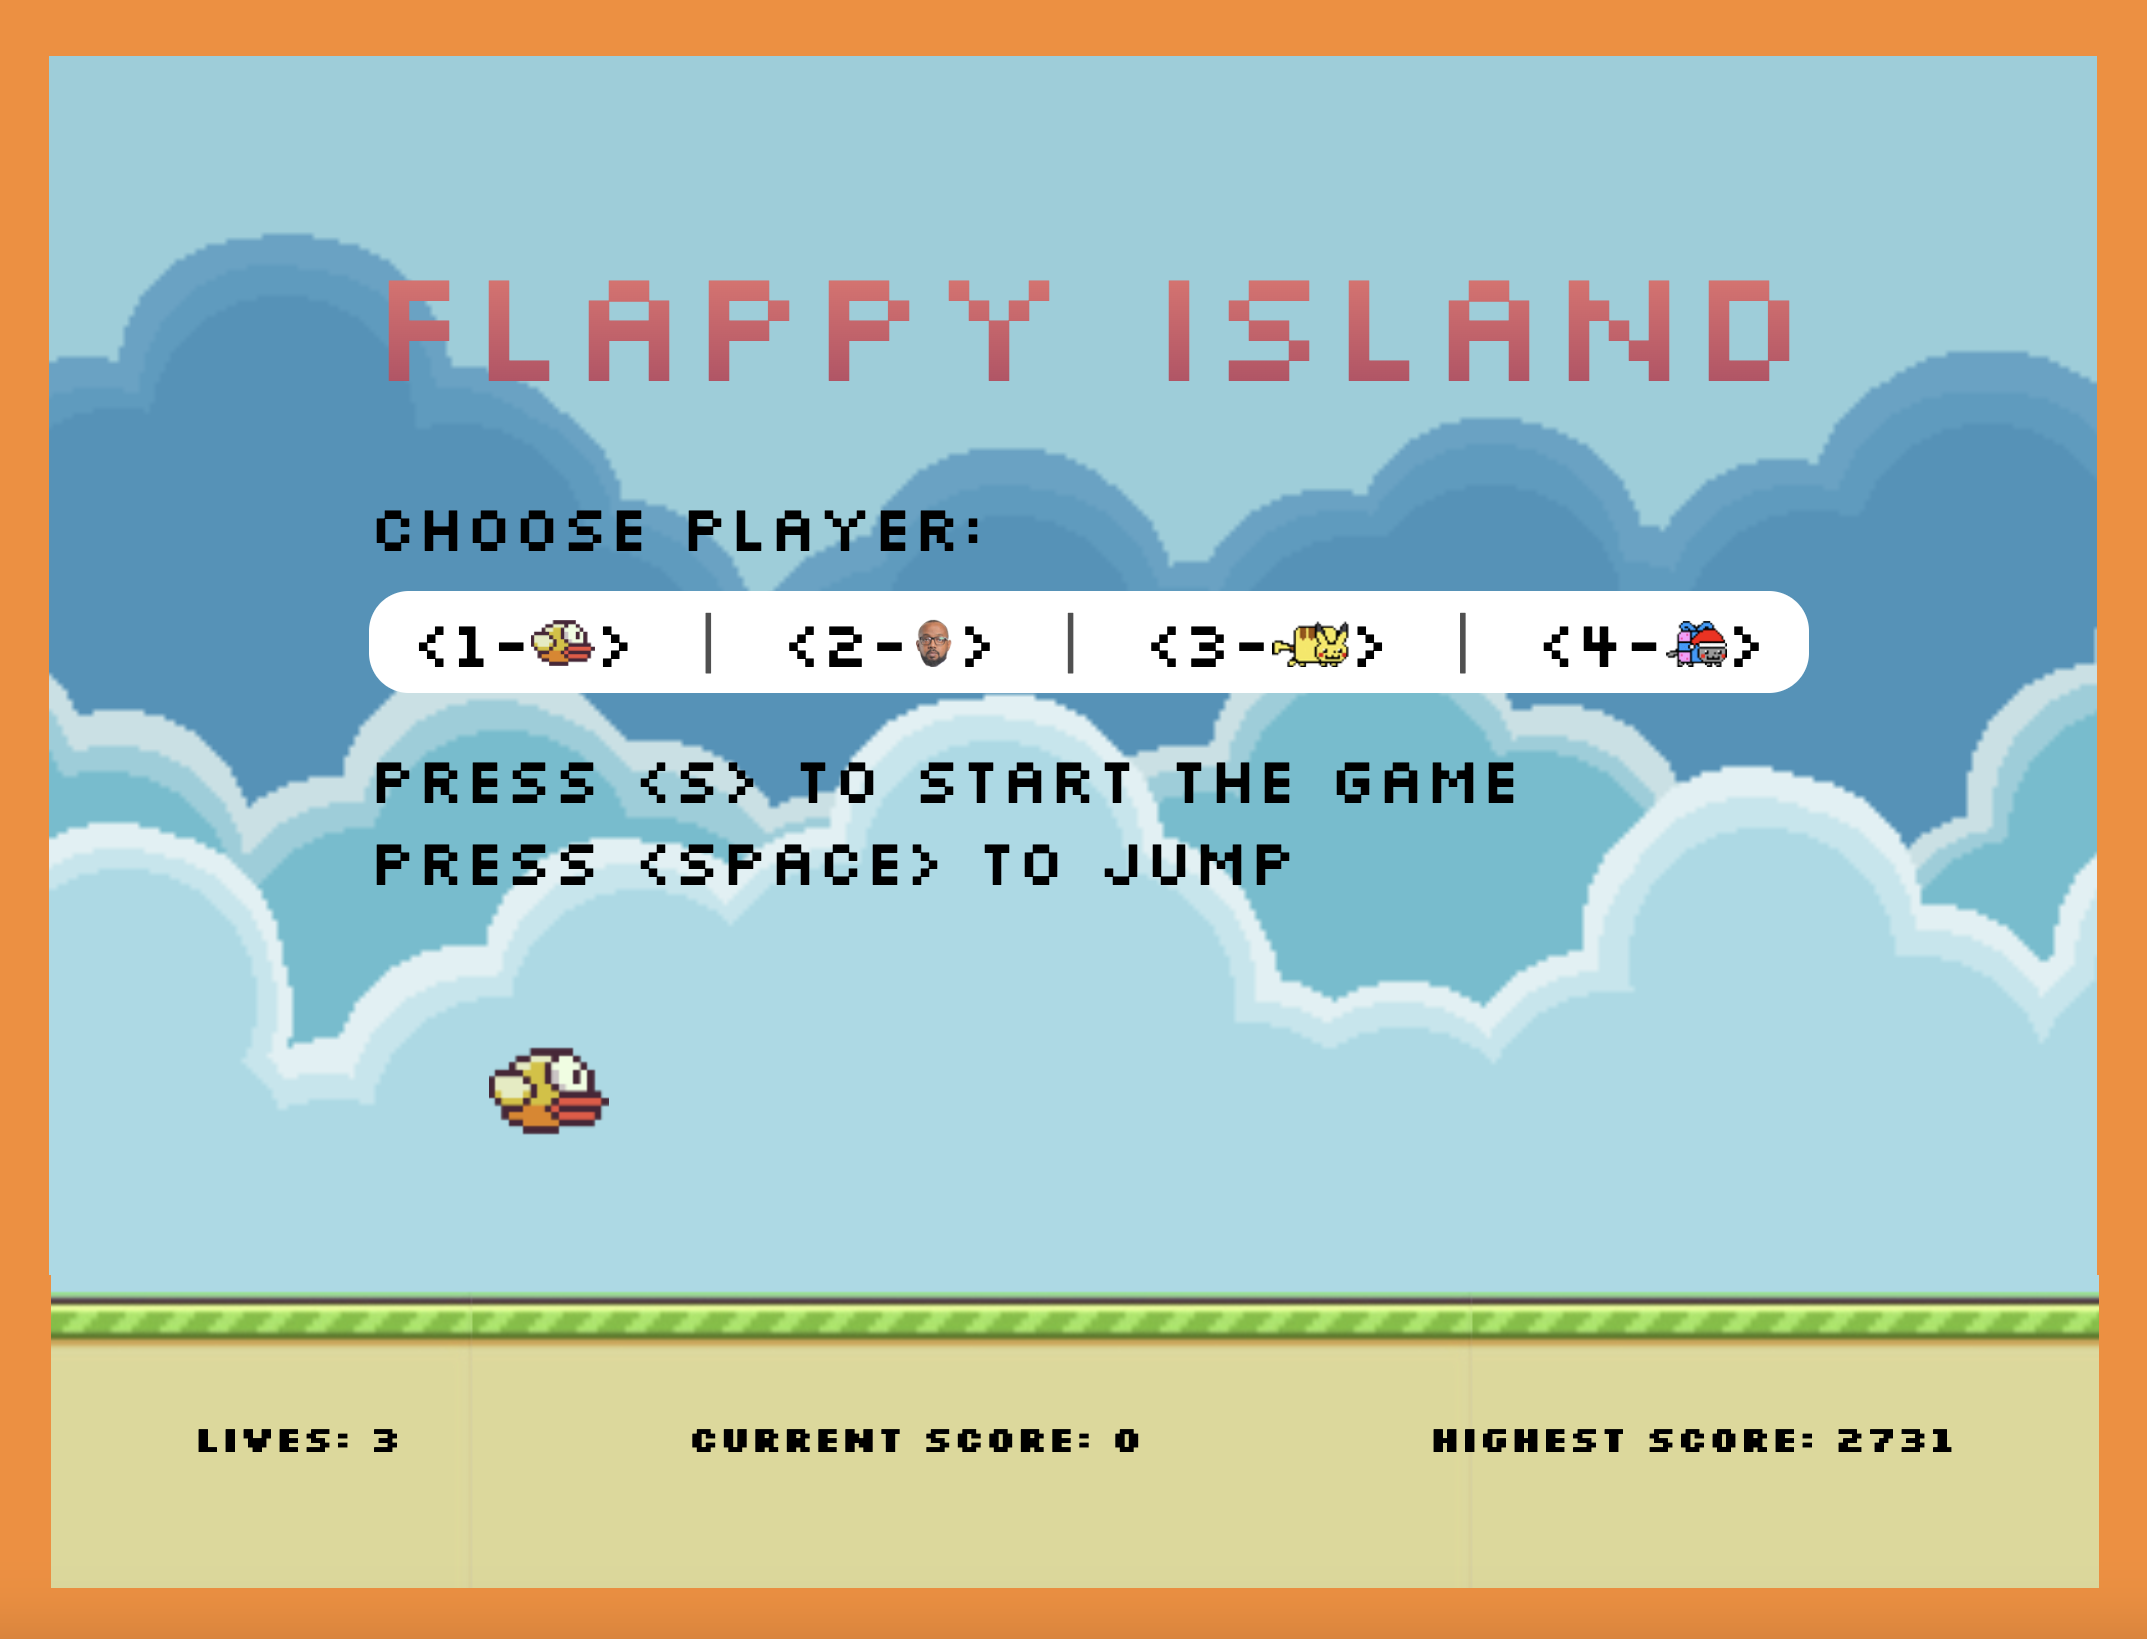
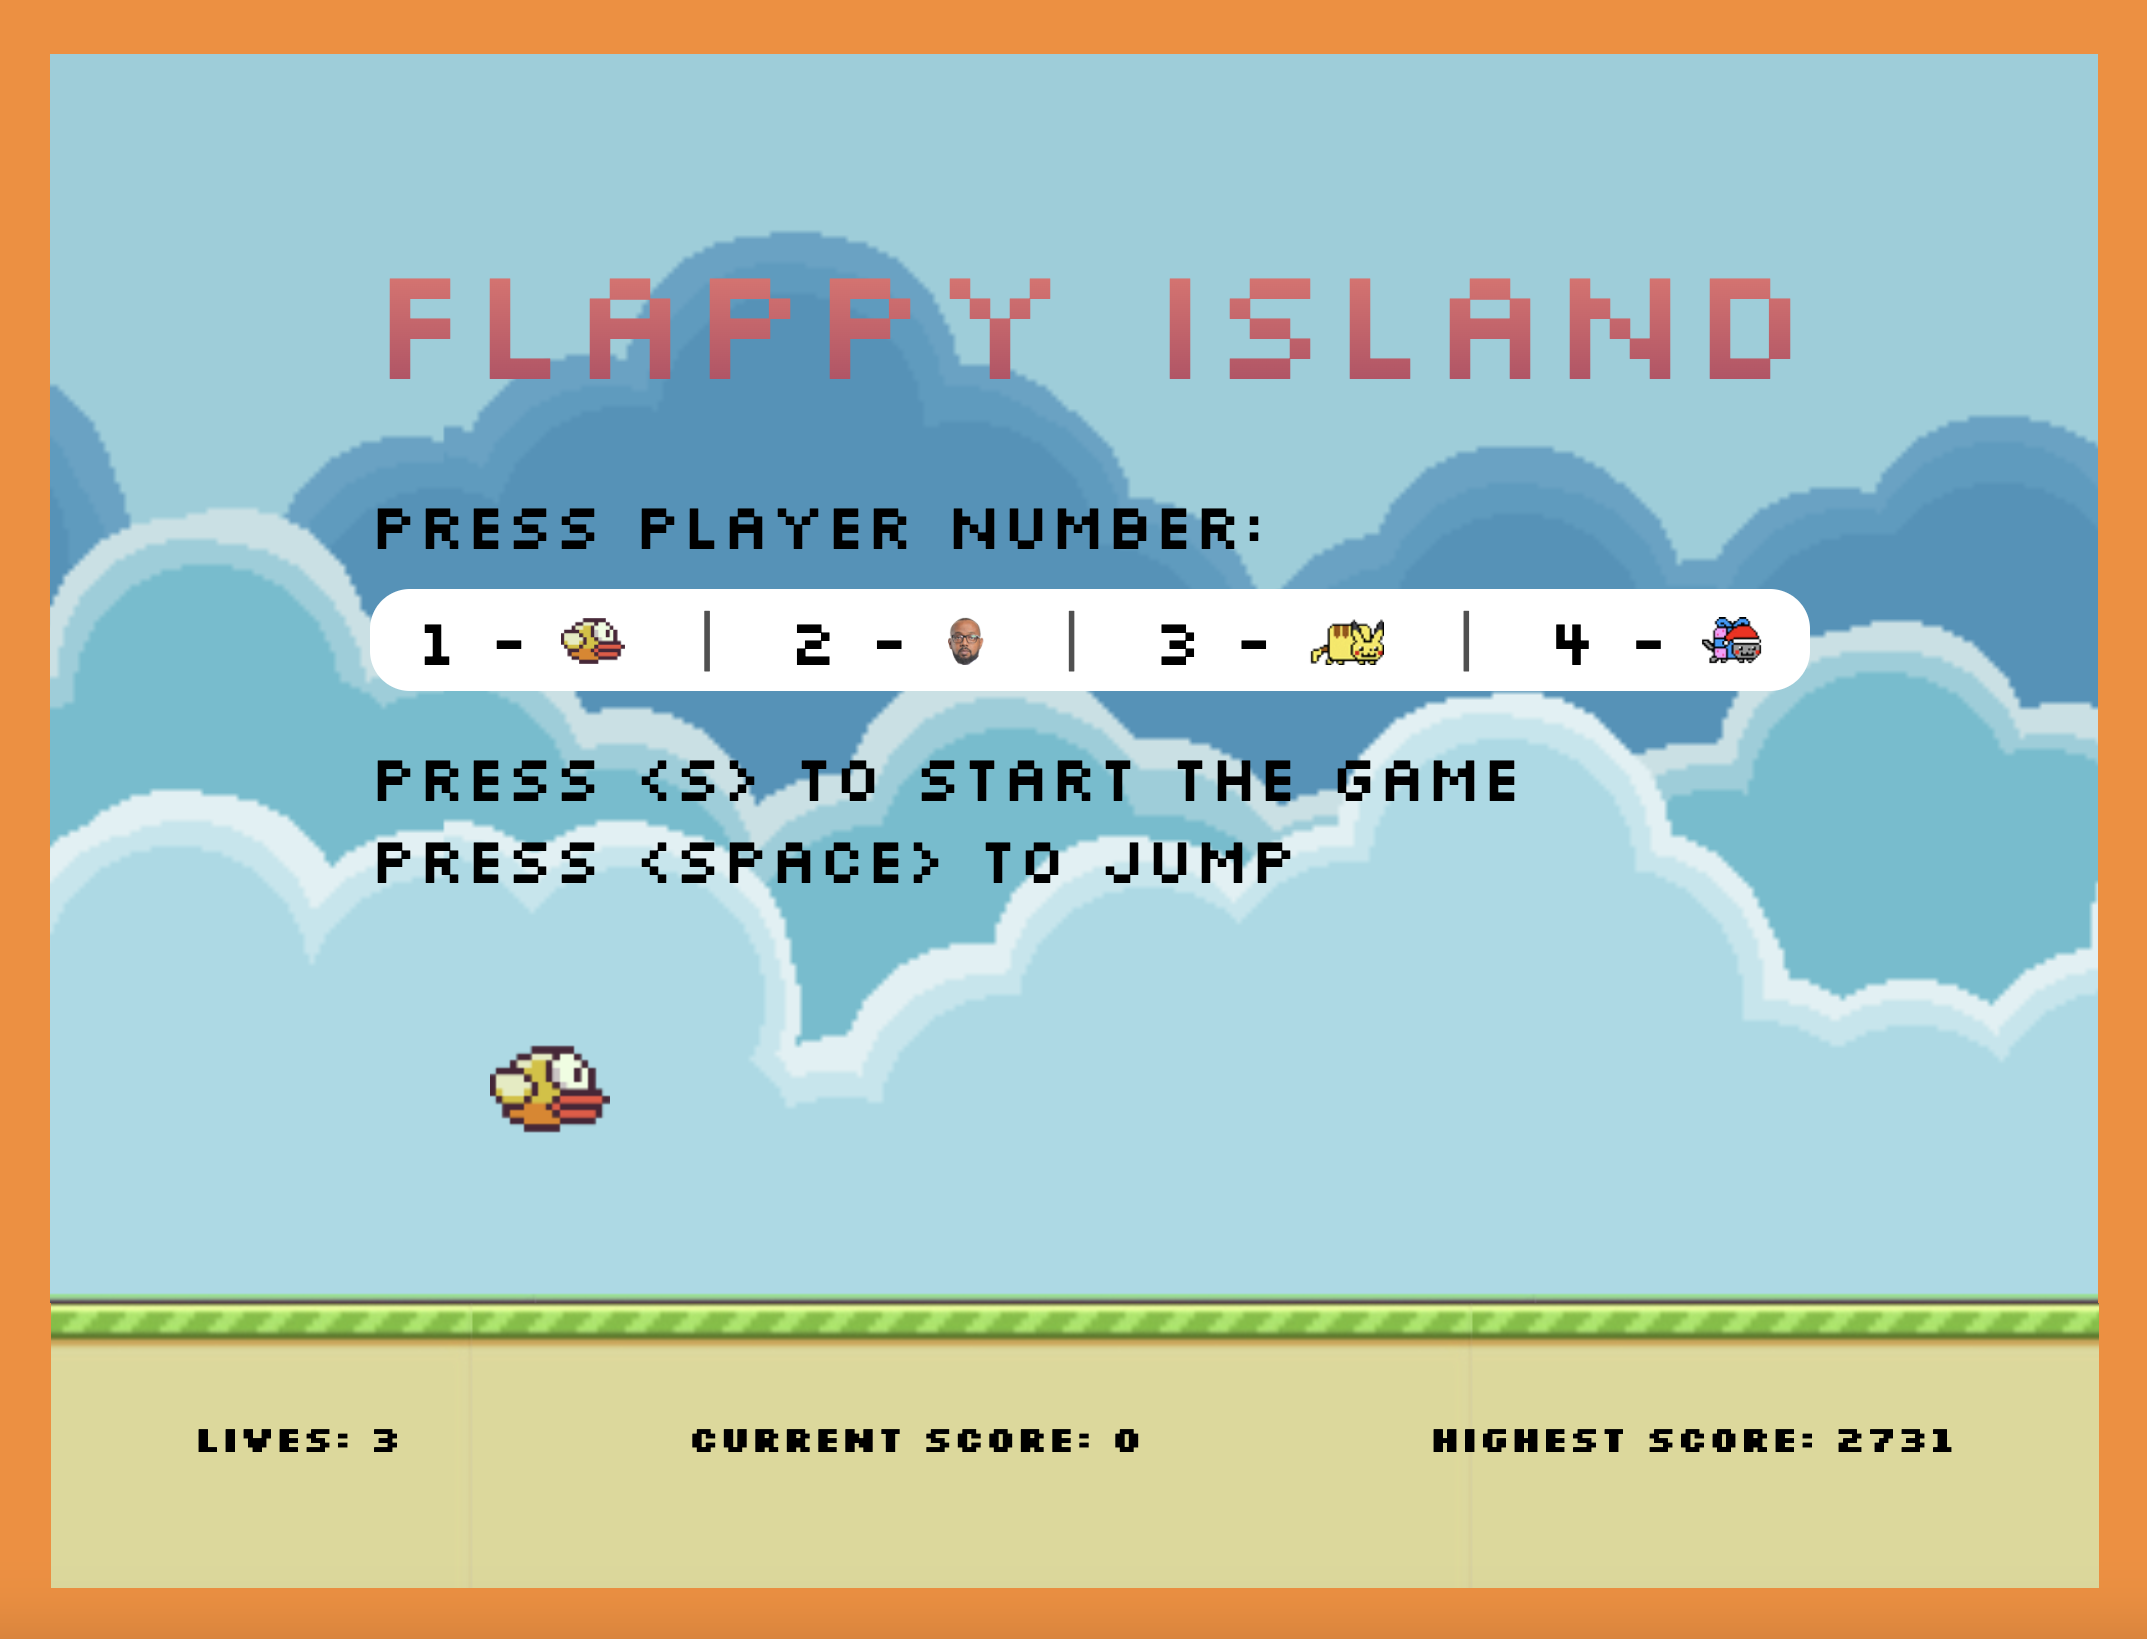
fixing the players typing

diff --git a/index.html b/index.html
@@ -44,19 +44,15 @@
         </audio>
         <p class="title">FLAPPY ISLAND</p>
 
-        <p>Choose player:</p>
+        <p>Press Player Number:</p>
         <div class="avatar-box">
-          <span>&lt;1-<img src="./images/bird1.png" class="avatar" />&gt;</span>
+          <span>1 - <img src="./images/bird1.png" class="avatar" /></span>
           <span class="vertical-line">|</span>
-          <span
-            >&lt;2-<img src="./images/hassan.png" class="avatar" />&gt;</span
-          >
+          <span>2 - <img src="./images/hassan.png" class="avatar" /></span>
           <span class="vertical-line">|</span>
-          <span
-            >&lt;3-<img src="./images/pikachu.gif" class="avatar" />&gt;</span
-          >
+          <span>3 - <img src="./images/pikachu.gif" class="avatar" /></span>
           <span class="vertical-line">|</span>
-          <span>&lt;4-<img src="./images/nyan.gif" class="avatar" />&gt;</span>
+          <span>4 - <img src="./images/nyan.gif" class="avatar" /></span>
         </div>
 
         <p>
